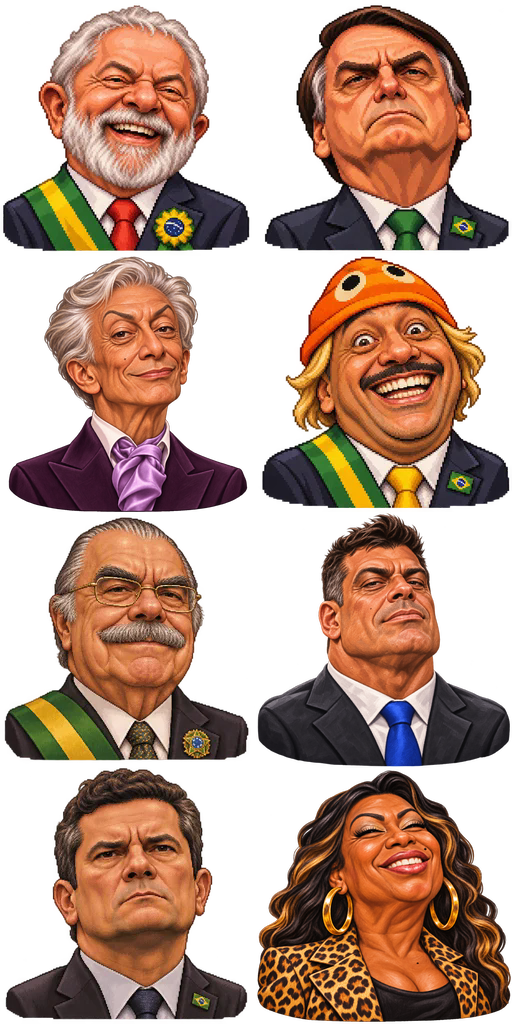
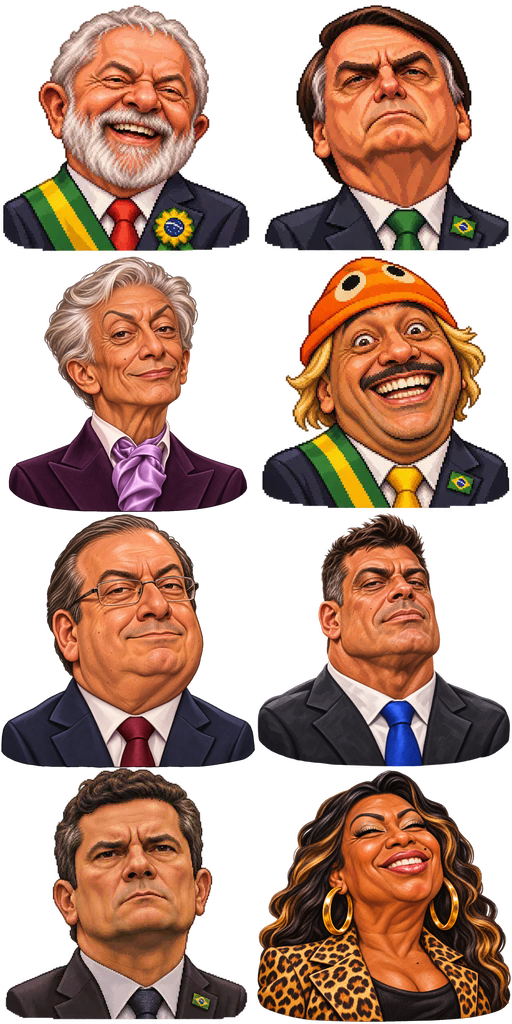
Replace José Sarney with Eduardo Cunha

Changed region(s): [[0.0, 0.5, 0.5, 0.75]]

diff --git a/apps/sessao/src/game.ts b/apps/sessao/src/game.ts
@@ -29,7 +29,7 @@ const briefcaseGrip = {
   Bolsonaro: [[[83,103],[86,97],[83,103],[87,87]],[[57,104],[85,90],[57,104],[82,89]],[[41,103],[41,99],[41,103],[43,94]]],
   Clodovil: [[[90,101],[95,94],[90,101],[87,91]],[[56,103],[81,84],[56,103],[81,84]],[[34,101],[36,96],[34,101],[36,96]]],
   Tiririca: [[[85,104],[89,95],[85,104],[80,91]],[[58,103],[86,88],[58,103],[87,87]],[[41,105],[38,98],[41,105],[39,91]]],
-  'José Sarney': [[[84,105],[87,98],[84,105],[82,92]],[[55,105],[84,89],[55,105],[82,89]],[[42,106],[39,100],[42,106],[42,93]]],
+  'Eduardo Cunha': [[[94,100],[95,95],[94,100],[88,92]],[[54,104],[84,86],[54,104],[84,86]],[[35,101],[34,98],[35,101],[34,98]]],
   'Alexandre Frota': [[[92,106],[94,92],[92,106],[87,91]],[[54,105],[83,85],[54,105],[83,85]],[[34,106],[34,96],[34,106],[34,96]]],
   'Sergio Moro': [[[85,106],[87,99],[85,106],[82,92]],[[55,105],[85,90],[55,105],[84,89]],[[43,106],[40,100],[43,106],[43,94]]],
   'Inês Brasil': [[[94,100],[98,95],[94,100],[92,89]],[[65,100],[89,79],[65,100],[89,79]],[[38,101],[32,94],[38,101],[32,94]]],

diff --git a/apps/sessao/src/character-art.test.ts b/apps/sessao/src/character-art.test.ts
@@ -7,7 +7,7 @@ for (const [name,skin] of [
   ['Bolsonaro','bolsonaro'],
   ['Clodovil','clodovil'],
   ['Tiririca','tiririca'],
-  ['José Sarney','sarney'],
+  ['Eduardo Cunha','eduardo-cunha'],
   ['Alexandre Frota','alexandre-frota'],
   ['Sergio Moro','sergio-moro'],
   ['Inês Brasil','ines-brasil'],
@@ -30,7 +30,7 @@ for (const [name,skin] of [
 }
 
 test('the replacement skins ship all three combat sheets at the Phaser atlas dimensions', async ()=>{
-  for (const skin of ['alexandre-frota','ines-brasil']) {
+  for (const skin of ['alexandre-frota','ines-brasil','eduardo-cunha']) {
     for (const action of ['attack','hit','fall']) {
       const asset = Bun.file(new URL(`../public/assets/${skin}-${action}.webp`,import.meta.url));
       expect(await asset.slice(8,16).text()).toBe('WEBPVP8L');

diff --git a/apps/sessao/src/map.ts b/apps/sessao/src/map.ts
@@ -7,7 +7,7 @@ import { mapNpcs, npcs, snackBar, treasurer } from './npcs';
 export const WIDTH = 1136;
 export const HEIGHT = 759;
 export const SPEED = 88;
-export const NAMES = ['Lula', 'Bolsonaro', 'Clodovil', 'Tiririca', 'José Sarney', 'Alexandre Frota', 'Sergio Moro', 'Inês Brasil'] as const;
+export const NAMES = ['Lula', 'Bolsonaro', 'Clodovil', 'Tiririca', 'Eduardo Cunha', 'Alexandre Frota', 'Sergio Moro', 'Inês Brasil'] as const;
 export type Rect = readonly [x: number, y: number, width: number, height: number];
 
 export const isolationRoom = {name:'Sala de Isolamento',bounds:[65,655,129,94] as Rect,spawn:{x:129.5,y:703},exit:{x:130,y:516}};

diff --git a/apps/sessao/src/network-movement.test.ts b/apps/sessao/src/network-movement.test.ts
@@ -167,7 +167,7 @@ test('a long route across the Congress remains walkable after compressing straig
 
 test('a walking NPC interpolates through a late snapshot and stops when snapshots run out',()=>{
   const history = new PlayerHistory();
-  const player = {id:'npc-parliamentarian-1',nick:'José Sarney',npc:true as const,character:4,x:100,y:146,moving:true,direction:1};
+  const player = {id:'npc-parliamentarian-1',nick:'Eduardo Cunha',npc:true as const,character:4,x:100,y:146,moving:true,direction:1};
   history.add([player],0);
   history.add([{...player,x:110}],100);
   expect(history.sample(260,player.id)?.x).toBe(106);

diff --git a/apps/sessao/src/character-art.ts b/apps/sessao/src/character-art.ts
@@ -12,7 +12,7 @@ const combatCharacters:Record<(typeof NAMES)[number],string> = {
   Bolsonaro:'bolsonaro',
   Clodovil:'clodovil',
   Tiririca:'tiririca',
-  'José Sarney':'sarney',
+  'Eduardo Cunha':'eduardo-cunha',
   'Alexandre Frota':'alexandre-frota',
   'Sergio Moro':'sergio-moro',
   'Inês Brasil':'ines-brasil',
